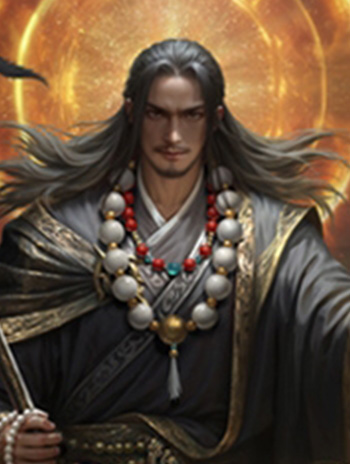
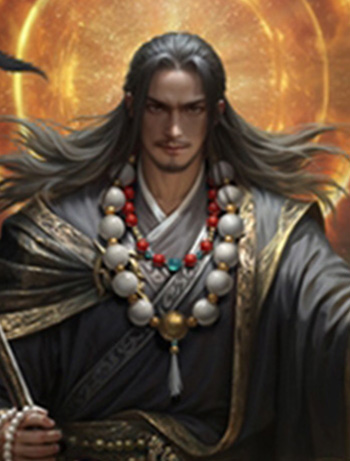
丹术、警觉修复；笮融原画调整

diff --git a/mode/boss.js b/mode/boss.js
@@ -8753,20 +8753,26 @@ export default () => {
 				},
 			},
 			boss_danshu: {
-				trigger: { player: "loseEnd" },
+				trigger: {
+					player: "loseAfter",
+					global: ["loseAsyncAfter", "gainAfter", "addJudgeAfter", "equipAfter", "addToExpansionAfter"],
+				},
 				frequent: true,
 				unique: true,
 				filter(event, player) {
-					return _status.currentPhase != player && player.hp < player.maxHp;
+					if (!event.getl?.(player)?.cards2?.length) {
+						return false;
+					}
+					return _status.currentPhase != player && player.isDamaged();
 				},
-				content() {
-					"step 0";
-					player.judge(function (card) {
-						return get.color(card) == "red" ? 1 : 0;
-					});
-					"step 1";
-					if (result.color == "red") {
-						player.recover();
+				async content(event, trigger, player) {
+					const result = await player
+						.judge(function (card) {
+							return get.color(card) == "red" ? 1 : 0;
+						})
+						.forResult();
+					if (result?.color == "red") {
+						await player.recover();
 					}
 				},
 				ai: {
